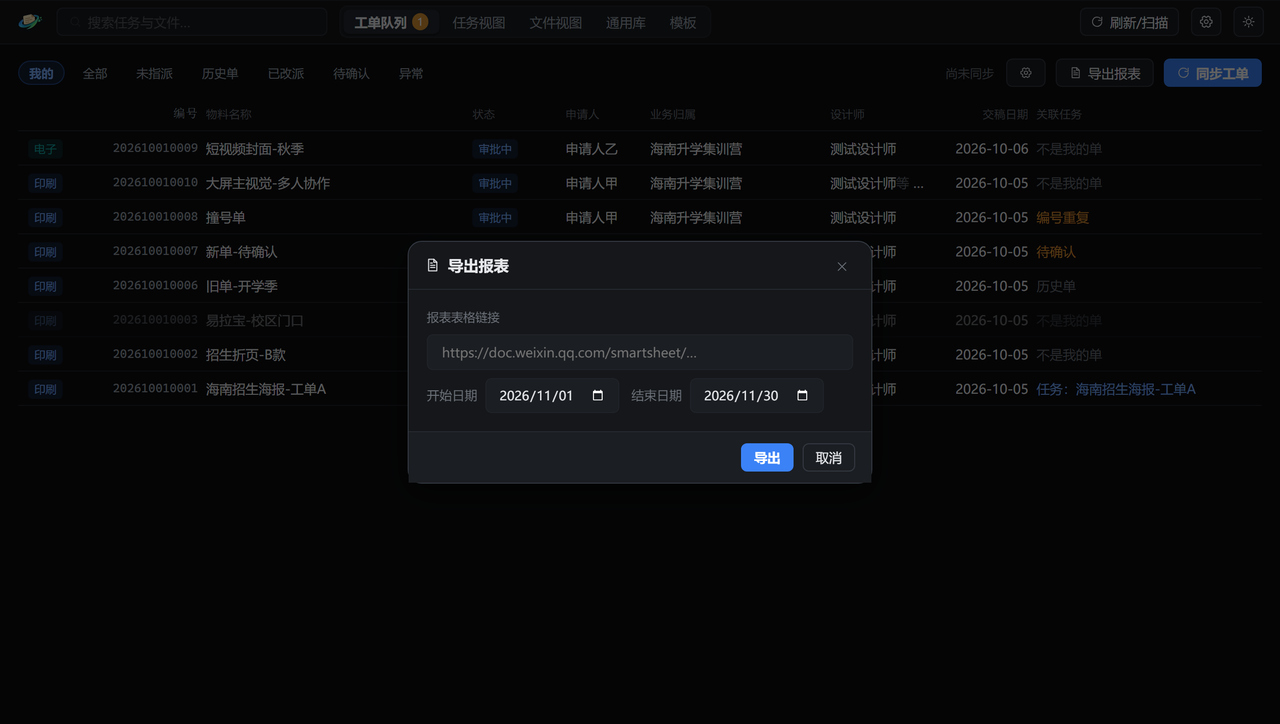
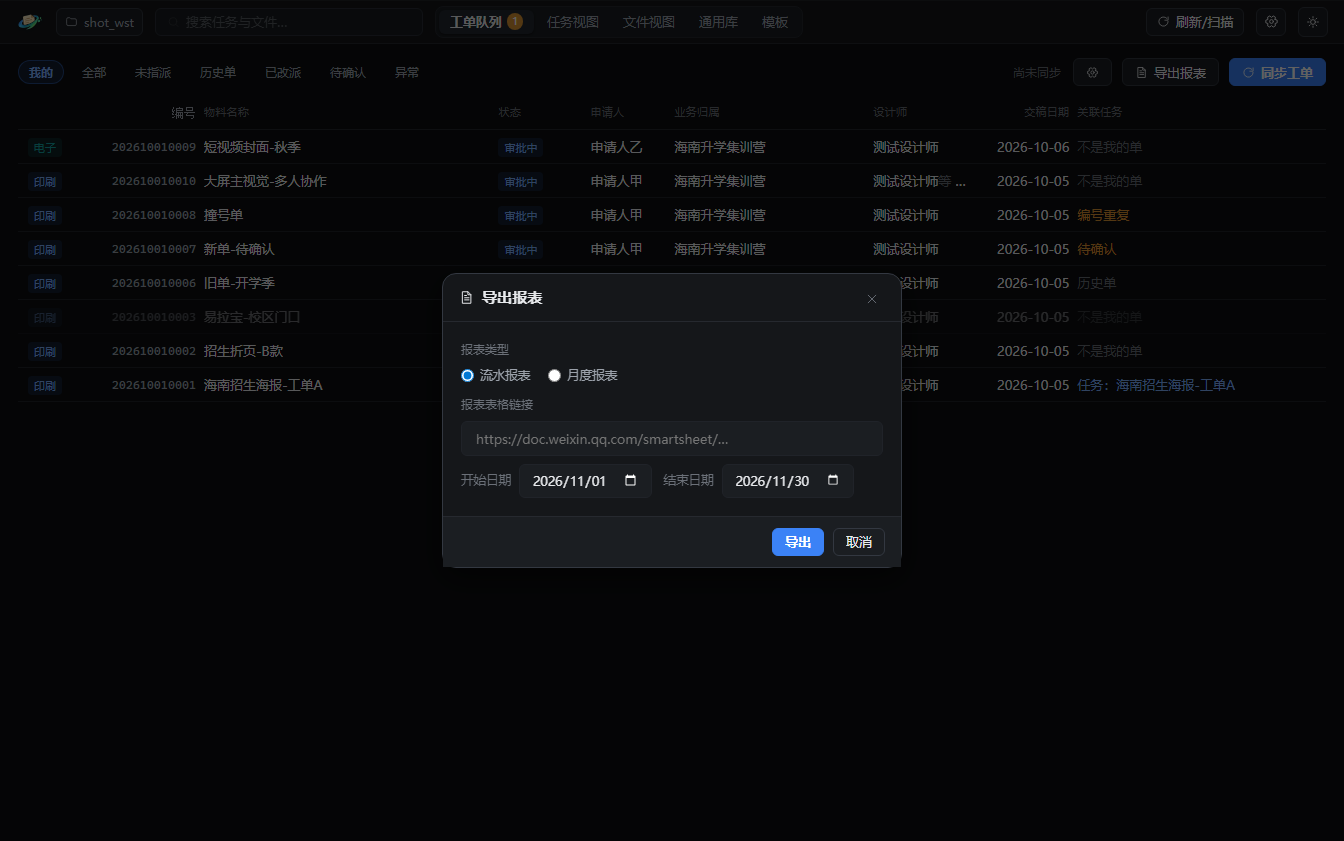
chore(release): v1.15.0 手册更新 + 发版记录
手册：2.9 重写为流水/月度双模板（含 9 列字段表与月度规则）；5.4 工作区改为顶栏面板 + 设置页管理器；
清掉旧按钮名「更换位置」；换 4 张截图。check.cjs 全绿。
产物：rel_out/v1.15.0/VellumDesk-1.15.0-Setup.exe（229MB，SHA256 7302c351…）。
更新说明补短版（给同事）。.gitignore 补 rel_out/。

diff --git a/docs/manual/index.html b/docs/manual/index.html
@@ -46,13 +46,13 @@
     <!-- ============ 封面 ============ -->
     <header class="cover">
       <img class="logo" src="images/logo.png" alt="Vellum Desk" />
-      <span class="tag">USER MANUAL · v1.14.0</span>
+      <span class="tag">USER MANUAL · v1.15.0</span>
       <h1>Vellum工作台 用户使用手册</h1>
       <p class="lede">本地素材管理桌面软件。把设计物料、任务稿、企微工单这三件事，收进一个「看得见磁盘真相」的工作台里 —— 所有素材都在你本机硬盘上，不上传任何云端。</p>
       <div class="kv">
-        <div><b>1.14.0</b>软件版本</div>
+        <div><b>1.15.0</b>软件版本</div>
         <div><b>Windows 10 / 11 · 64 位</b>适用系统</div>
-        <div><b>2026-11-10</b>手册更新</div>
+        <div><b>2026-11-18</b>手册更新</div>
         <div><b>40+ 张</b>界面截图</div>
         <div><b>内部使用</b>分发范围</div>
       </div>
@@ -580,14 +580,14 @@
 
     <section id="s2-9">
       <h2><span class="n">2.9</span>导出报表</h2>
-      <p>导出不是导一份本地文件，而是把数据<b>写进另一张企微智能表格</b>（叫「工单报表」）的一个新子表里。</p>
+      <p>导出分两种：<b>流水报表</b>（按单据流水，一张子表）和<b>月度报表</b>（按设计师一人一张，用来汇报月度产出）。数据都写进「工单报表」这张企微智能表格的新子表里，<b>不是导本地文件</b>。</p>
       <figure>
         <img src="images/22-导出报表.png" alt="导出报表" />
-        <figcaption>图 2-9　导出报表 —— 报表表格链接 + 起止日期（默认当月 1 日 ~ 月末）</figcaption>
+        <figcaption>图 2-9　导出报表 —— 先选报表类型（流水 / 月度），再选起止日期（默认当月 1 日 ~ 月末）</figcaption>
       </figure>
 
-      <h3>前置条件</h3>
-      <p>「工单报表」这张智能表格里，要有一个子表叫 <b>「报表模板」</b>，并且下面这 12 列的<b>列名和类型完全一致</b>（表由管理员建好）：</p>
+      <h3>前置条件：两张模板子表</h3>
+      <p>「工单报表」里要有一个子表叫 <b>「报表模板（总报表）」</b>，并且下面这 12 列的<b>列名和类型完全一致</b>（表由管理员建好）：</p>
       <table>
         <thead><tr><th style="width:44px">#</th><th>列</th><th>类型</th><th>来源</th></tr></thead>
         <tbody>
@@ -606,15 +606,48 @@
         </tbody>
       </table>
 
-      <h3>操作三步</h3>
+      <p>月度报表另有一张模板子表 <b>「报表模板（月度报表）」</b>，9 列：</p>
+      <table>
+        <thead><tr><th style="width:44px">#</th><th>列</th><th>类型</th><th>来源</th></tr></thead>
+        <tbody>
+          <tr><td>1</td><td>工单类型（印刷/电子）</td><td>单选（印刷 / 电子）</td><td>工单</td></tr>
+          <tr><td>2</td><td>编号</td><td>文本</td><td>工单</td></tr>
+          <tr><td>3</td><td>完成时间</td><td>日期</td><td>工单（筛选依据）</td></tr>
+          <tr><td>4</td><td>物料名称</td><td>文本</td><td>工单</td></tr>
+          <tr><td>5</td><td>业务归属</td><td>文本</td><td>工单</td></tr>
+          <tr><td>6</td><td>设计师</td><td>成员（多选）</td><td>工单（全量）</td></tr>
+          <tr><td>7</td><td>物料体量</td><td>数字</td><td><b>设计师手填</b>（导出留空）</td></tr>
+          <tr><td>8</td><td>缩略图</td><td>图片</td><td>「完成任务」时写回的图</td></tr>
+          <tr><td>9</td><td>备注</td><td>文本</td><td><b>设计师手填</b>（导出留空）</td></tr>
+        </tbody>
+      </table>
+
+      <div class="call info"><span class="h">模板名对不上怎么办</span>软件会自动认这两个名字；万一模板又改了名，导出时会列出这张表格里的所有子表让你选，选一次就记住。</div>
+
+      <h3>流水报表：三步</h3>
       <ol class="steps">
         <li>工单队列 → 顶栏 <span class="btnchip">导出报表</span>。</li>
-        <li>把「工单报表」的链接粘进「报表表格链接」—— <b>填过一次就记住了</b>，以后打开会自动预填。</li>
+        <li>类型选 <b>流水报表</b>，把「工单报表」的链接粘进「报表表格链接」—— <b>填过一次就记住了</b>，以后打开会自动预填。</li>
         <li>选开始 / 结束日期 → 点 <span class="btnchip">导出</span>。结果是在「工单报表」里新建一个子表，名字就是日期区间（如 <code>2026-10-01~2026-10-31</code>）。</li>
       </ol>
 
+      <h3>月度报表：一位设计师一张子表</h3>
+      <figure>
+        <img src="images/22b-导出报表-月度.png" alt="月度报表" />
+        <figcaption>图 2-9b　切到月度报表 —— 按设计师一人一张，物料体量 / 备注留空等设计师填</figcaption>
+      </figure>
+      <ul>
+        <li>类型选 <b>月度报表</b>，起止日期可以选整月，也可以只导半个月（如 1 日 ~ 15 日）。</li>
+        <li>软件按「设计师」拆表：<b>一个人一张子表</b>，只装他自己的单。</li>
+        <li>子表名：整月是 <code>2026-11 张三 月度报表</code>；非整月是 <code>2026-11-01~15 张三 月度报表</code> —— 同一个月导两次也不会重名。</li>
+        <li><b>物料体量、备注导出时是空的</b>，由设计师在表格里手填。</li>
+        <li>一张单有两个设计师 → 两个人的表里<b>各出现一次</b>（按人计产出）。</li>
+        <li>没有设计师的单不导出，结果里会提示「跳过 N 条（无设计师）」。</li>
+      </ul>
+      <div class="call info"><span class="h">子表为什么是平铺的</span>企微接口没有「子表文件夹 / 分组」能力。子表按创建顺序排列，同月几张会挨在一起；要收进分组，导出后在客户端手动拖一次。</div>
+
       <div class="call warn"><span class="h">报表里没数据？</span>多半是这段时间内没有「完成时间」落进来的单 —— <b>还在审批中的单，这一列是空的</b>，天然不进报表。导出为空时会提示「该时间段没有已完成工单」。</div>
-      <div class="call info"><span class="h">导出前顺手做一件事</span>工单详情里的「印刷金额 / 绩效金额 / 备注」是只存软件本地的三个字段（企微表里没有这几列）。想让报表带上它们，就在这里按单填好。</div>
+      <div class="call info"><span class="h">导出前顺手做一件事</span>工单详情里的「印刷金额 / 绩效金额 / 备注」是只存软件本地的三个字段（企微表里没有这几列）。想让流水报表带上它们，就在这里按单填好；月度报表的备注是留空手填的，不取这里的值。</div>
     </section>
 
     <section id="s2-10">
@@ -1249,21 +1282,36 @@
       <h2><span class="n">5.4</span>工作区管理与多库</h2>
       <p>「工作区」就是存放全部素材的根文件夹。整个文件夹拷走 = 完整备份。</p>
       <div class="fig2">
-        <figure><img src="images/36-多工作区.png" alt="多工作区" /><figcaption>图 5-5　左栏可以挂多个工作区，点一下切换</figcaption></figure>
-        <figure><img src="images/37-工作区连不上.png" alt="工作区连不上" /><figcaption>图 5-6　工作区连不上时的黄条 —— 重试 / 更改位置</figcaption></figure>
+        <figure><img src="images/36-多工作区.png" alt="多工作区" /><figcaption>图 5-5　顶栏的工作区按钮 —— 点开是库列表，两个库都在这里切</figcaption></figure>
+        <figure><img src="images/36b-工作区管理器.png" alt="工作区管理器" /><figcaption>图 5-6　设置 → 工作区 —— 切换 / 重命名 / 移除 / 搬移都在这里</figcaption></figure>
       </div>
+
+      <h3>切换：顶栏常驻当前库</h3>
+      <p>顶栏左上角（logo 右边）一直显示当前库的名字，<b>五个视图都能看见</b>。点它弹出库列表：</p>
+      <ul>
+        <li>每行是「名字 + 完整路径」—— 两个库重名时只有路径能区分；</li>
+        <li>当前库打勾并高亮；</li>
+        <li>点另一行当场切过去，整套重新加载（筛选状态清空）；</li>
+        <li>底部是 <span class="btnchip">添加工作区</span> 和 <span class="btnchip">管理工作区</span>。</li>
+      </ul>
+      <p>只有一个库时，点它直接进「设置 → 工作区」，不弹列表。</p>
+
+      <h3>管理：设置 → 工作区</h3>
       <table>
         <thead><tr><th style="width:150px">元素</th><th>说明</th></tr></thead>
         <tbody>
-          <tr><td>工作区卡片</td><td>点一下切到另一个库（会整套重新加载，筛选状态清空）</td></tr>
-          <tr><td>「当前」标记</td><td>表示正在用这个库</td></tr>
-          <tr><td>打开文件夹</td><td>用资源管理器打开工作区根目录</td></tr>
-          <tr><td>搬移位置</td><td>把整个工作区搬到别的路径。<b>同盘瞬间完成；跨盘软件不搬</b>，会弹窗教你先用资源管理器复制再「添加工作区」</td></tr>
-          <tr><td>✕</td><td>从列表移除（<b>只去掉记录，磁盘文件一个字节不动</b>）</td></tr>
+          <tr><td>库表格</td><td>每行「名称 / 位置 / 操作」，当前库高亮并标「当前」</td></tr>
+          <tr><td>切换</td><td>非当前行点「切换」就换过去（等同于顶栏面板里点一下）</td></tr>
+          <tr><td>重命名</td><td>行内编辑，Enter 提交、Esc 撤销。<b>只改显示名，不改文件夹名</b>（改了会牵动一堆已登记的路径）</td></tr>
+          <tr><td>打开</td><td>用资源管理器打开该库的根目录</td></tr>
+          <tr><td>搬移</td><td>把整个工作区搬到别的路径。<b>同盘瞬间完成；跨盘软件不搬</b>，会弹窗教你先用资源管理器复制再「添加工作区」</td></tr>
+          <tr><td>移除</td><td>从列表移除（<b>只去掉记录，磁盘文件一个字节不动</b>）</td></tr>
           <tr><td>＋ 添加工作区</td><td>选一个文件夹作为工作区：空的就新建库，有素材库的直接接进来</td></tr>
+          <tr><td>打开文件夹</td><td>页面顶部按钮，打开当前库的根目录</td></tr>
         </tbody>
       </table>
-      <div class="call warn"><span class="h">工作区连不上怎么办</span>顶部出现黄条「工作区『xxx』连不上，里面的东西一件没动」= 盘没挂上或没权限。插好移动硬盘后点 <span class="btnchip">重试</span>；路径变了就点 <span class="btnchip">更改位置</span> 指到新位置。<b>软件绝不会偷偷换位置。</b></div>
+
+      <div class="call warn"><span class="h">工作区连不上怎么办</span>顶部出现黄条「工作区『xxx』连不上，里面的东西一件没动」= 盘没挂上或没权限。插好移动硬盘后点 <span class="btnchip">重试</span>；路径真的变了，就去「设置 → 工作区」把旧库移除、用 <span class="btnchip">添加工作区</span> 指到新位置。<b>软件绝不会偷偷换位置。</b></div>
       <div class="call danger"><span class="h">不要用网盘同步目录当工作区</span>云端占位符、改名、并发写会让大批文件被判「文件已丢失」，甚至数据库损坏。放在本机固定盘或移动硬盘上。</div>
     </section>
 
@@ -1330,7 +1378,7 @@
         <thead><tr><th style="width:130px">页</th><th>管什么</th><th style="width:230px">里面有什么</th></tr></thead>
         <tbody>
           <tr><td>通用</td><td>界面主题（深色 / 浅色）、列表密度（标准 / 紧凑）、启动时打开（停在那一屏）</td><td>主题两颗按钮（当前那个实心蓝）；密度两颗按钮；启动是一个下拉，6 个选项</td></tr>
-          <tr><td>工作区</td><td>这台电脑上的素材目录 —— 所有素材都存在这里，不上传云端</td><td>完整路径 + <span class="btnchip">打开文件夹</span> <span class="btnchip">更换位置</span></td></tr>
+          <tr><td>工作区</td><td>这台电脑上的素材目录 —— 所有素材都存在这里，不上传云端；多个库在这里切换、重命名、移除</td><td>库表格（切换 / 重命名 / 打开 / 搬移 / 移除）+ <span class="btnchip">添加工作区</span></td></tr>
           <tr><td>企业微信连接</td><td>工单同步用的账号级授权，一次授权长期有效</td><td><span class="btnchip">打开连接引导</span>（授权状态在引导里看）</td></tr>
           <tr><td>PS 插件联动</td><td>PS 里「新建稿」用的模板目录与自动同步开关</td><td><span class="btnchip">打开配置</span>（开关与目录在配置里改）</td></tr>
           <tr><td>关于</td><td>版本号与使用手册</td><td>版本号（报问题时带上这个号）、<span class="btnchip">打开手册</span>（用系统浏览器打开随安装包一起装好的手册）</td></tr>
@@ -1363,7 +1411,7 @@
       <ul>
         <li><b>换主题</b>：直接点顶栏最右的太阳 / 月亮钮就行，和「设置 → 通用」里那两颗按钮是同一件事。</li>
         <li><b>换密度</b>：工单多、一屏看不完时选「紧凑」；截图、录屏、给别人演示时选「标准」更好看。改完立即生效，不用重启。</li>
-        <li><b>换工作区</b>：「工作区 → 更换位置」= 换一整库素材。原库不会被删也不会被改，随时能换回来，细节见 <a href="#s5-4">5.4</a>。</li>
+        <li><b>换工作区</b>：点顶栏左上角的库名，或走「设置 → 工作区 → 切换」= 换一整库素材。原库不会被删也不会被改，随时能换回来，细节见 <a href="#s5-4">5.4</a>。</li>
       </ul>
     </section>
 
@@ -1696,7 +1744,7 @@ note:主推款，上方留白给标题</code></pre>
           <tr><td>导出报表</td><td>工单队列「导出报表」</td><td>导出 / 取消</td></tr>
           <tr><td>确认清理工单</td><td>工单设置「危险操作 → 清理这些工单」</td><td>确认清理 / 取消</td></tr>
           <tr><td>PS 插件联动</td><td>设置 → PS 插件联动 → 打开配置（顶栏原来那个「插件」按钮已经收进设置）</td><td>同步到插件 / 选择目录 / 关闭</td></tr>
-          <tr><td>设置</td><td>顶栏最右 ⚙</td><td>深色 / 浅色 / 打开文件夹 / 更换位置 / 打开连接引导 / 打开配置 / 关闭</td></tr>
+          <tr><td>设置</td><td>顶栏最右 ⚙</td><td>深色 / 浅色 / 切换 / 重命名 / 打开 / 搬移 / 移除 / 添加工作区 / 打开连接引导 / 打开配置 / 关闭</td></tr>
           <tr><td>通用库 · 新建 / 改名分组</td><td>通用库工具栏「新建分组」，或分组行上的 ✎</td><td>新建分组 / 保存 / 取消</td></tr>
           <tr><td>通用库 · 删除分组 / 移出 / 复制到任务</td><td>分组行的删除按钮；素材卡片的移除与复制按钮</td><td>删除分组 / 移出到回收站 / 只移出记录 / 复制到任务 / 取消</td></tr>
         </tbody>
@@ -1906,9 +1954,9 @@ note:主推款，上方留白给标题</code></pre>
       <table>
         <thead><tr><th style="width:170px">位置</th><th>含义</th></tr></thead>
         <tbody>
-          <tr><td><code>1.14.0</code></td><td>主版本 . 功能版本 . 修订号。修订号变大 = 小修小补；功能版本变大 = 加了一批新功能</td></tr>
+          <tr><td><code>1.15.0</code></td><td>主版本 . 功能版本 . 修订号。修订号变大 = 小修小补；功能版本变大 = 加了一批新功能</td></tr>
           <tr><td>状态栏右下角</td><td>软件里唯一的版本号显示位置 —— 报问题时顺手截这里</td></tr>
-          <tr><td>本手册封面</td><td>手册对应的软件版本（本手册对应 <b>1.14.0</b>）</td></tr>
+          <tr><td>本手册封面</td><td>手册对应的软件版本（本手册对应 <b>1.15.0</b>）</td></tr>
         </tbody>
       </table>
 
@@ -1916,7 +1964,7 @@ note:主推款，上方留白给标题</code></pre>
       <div class="call warn"><span class="h">升级前顺手备份一次</span>把整个工作区文件夹复制一份到移动硬盘。虽然升级不动素材，但这是零成本的保险。</div>
 
       <div style="margin-top:26px;padding-top:22px;border-top:1px solid var(--line);color:var(--ink-3);font-size:12.5px">
-        本手册对应软件版本 <b>1.14.0</b>　|　最后更新 2026-11-10　|　内部使用，请勿外传
+        本手册对应软件版本 <b>1.15.0</b>　|　最后更新 2026-11-18　|　内部使用，请勿外传
       </div>
     </section>
 
@@ -1930,7 +1978,7 @@ note:主推款，上方留白给标题</code></pre>
 <button class="totop" id="totop" title="回到顶部">↑</button>
 
 <footer style="max-width:1240px;margin:0 auto;padding:0 24px 60px">
-  <div class="fl"><img src="images/logo.png" alt="Vellum Desk" /><span>Vellum工作台 · 用户使用手册　|　软件版本 1.14.0　|　2026-11-10</span></div>
+  <div class="fl"><img src="images/logo.png" alt="Vellum Desk" /><span>Vellum工作台 · 用户使用手册　|　软件版本 1.15.0　|　2026-11-18</span></div>
   <span>下载与更新见页面右上角 <b style="font-family:var(--mono)">GitHub</b> 图标，或翻到 <a href="#s7-7">7.7 下载与更新</a></span>
 </footer>
 

diff --git a/PROGRESS.md b/PROGRESS.md
@@ -3549,3 +3549,36 @@ manual.html / wecom-cli / ffmpeg 都在。
 | #39 / #42 / #26 | 无工单、0 文件，可安全删 |
 | #45 | 无工单但**有 5 个文件**（#44 也有 5 个），要先比对哪边是要的 |
 | #13 / #37 / #46 | 带 `-2` 但各自挂工单、有文件，是正常同名任务，**不要动** |
+
+---
+
+## 第 88 批（2026-11-18）：发 v1.15.0
+
+把第 86（导出报表双模板）、87（单实例锁）两批合成一版发出去。
+
+**版本**：1.14.0 → 1.15.0（功能性新增，走 minor）。
+
+**手册**（docs/manual，跟着改）：
+
+- 封面 / 页脚 / 版本说明统一 1.15.0，手册日期 2026-11-18。
+- **2.9 导出报表整节重写**：先选类型（流水 / 月度）；前置条件拆成两张模板子表
+  （总报表 12 列 + 月度 9 列）；补月度规则（一人一张、整月/非整月命名、体量/备注留空、
+  一单多人各出现一次、无设计师跳过）；补「模板名对不上会列候选」和「子表为什么平铺」两条说明。
+- **5.4 工作区整节重写**（第 85 批遗留的待改项）：左栏列表 → 顶栏库标识 + 面板
+  + 设置页管理器；表格改成「切换 / 重命名 / 打开 / 搬移 / 移除 / 添加工作区」。
+- 清掉三处旧按钮名「更换位置」（第 85 批已退役），`check.cjs` ⑥ 从 1 项失败变全绿。
+- 截图：`22-导出报表`（新弹窗，含类型单选）、新增 `22b-导出报表-月度`（月度模式 + 手填说明）、
+  `36-多工作区`（顶栏面板）、新增 `36b-工作区管理器`（设置页表格）。
+
+**体检**：`node tools/manual/check.cjs` 全绿（56 张图、60 个按钮名对得上、单文件版最新）；
+仅剩「A4 打印版 PDF 不在」提醒（上一版也没生成，不阻塞）。
+
+**产物**：`rel_out/v1.15.0/VellumDesk-1.15.0-Setup.exe`（229.0 MB，
[1 lines of base64/hex data omitted]
+包内资源核对：manual.html 14.1 MB / wecom-cli 9.6 MB / ffmpeg 127.5 MB / app.asar 51.7 MB。
+
+**冒烟**：沙箱不允许直接起 GUI（`node` spawn exe 被权限拒绝），改为校验 asar 内关键字符串 ——
+`requestSingleInstanceLock` / `second-instance` / `1.15.0` / `月度报表` / `报表模板（月度报表）` /
+`buildTasks` 全部命中。**启动验证留给装机时做**：装完先开一次，确认窗口正常、状态栏是 v1.15.0。
+
+**更新说明**：`docs/更新说明-v1.15.0.md`（详细版）+ `docs/更新说明-v1.15.0-给同事.txt`（短版）。
